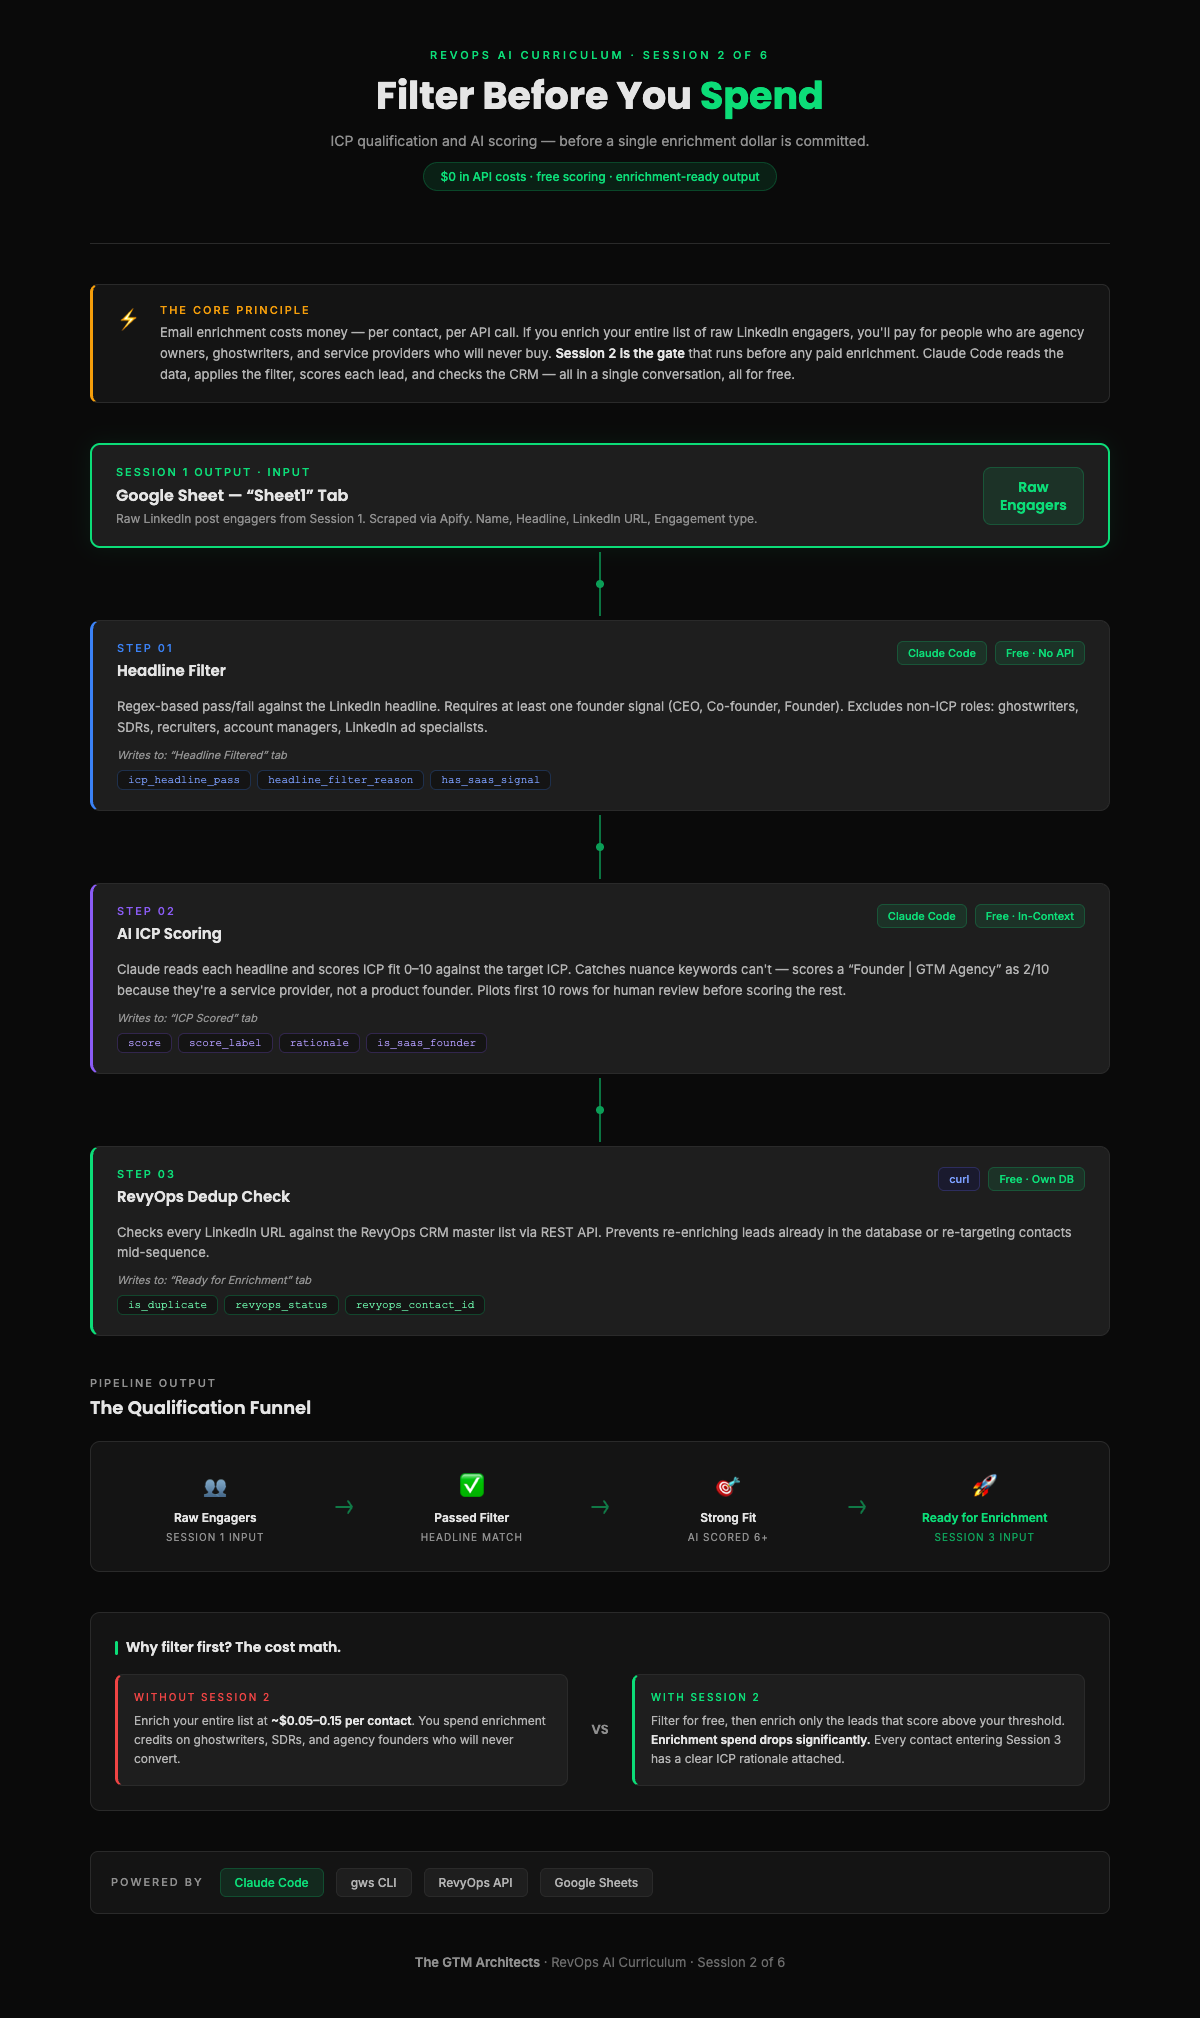
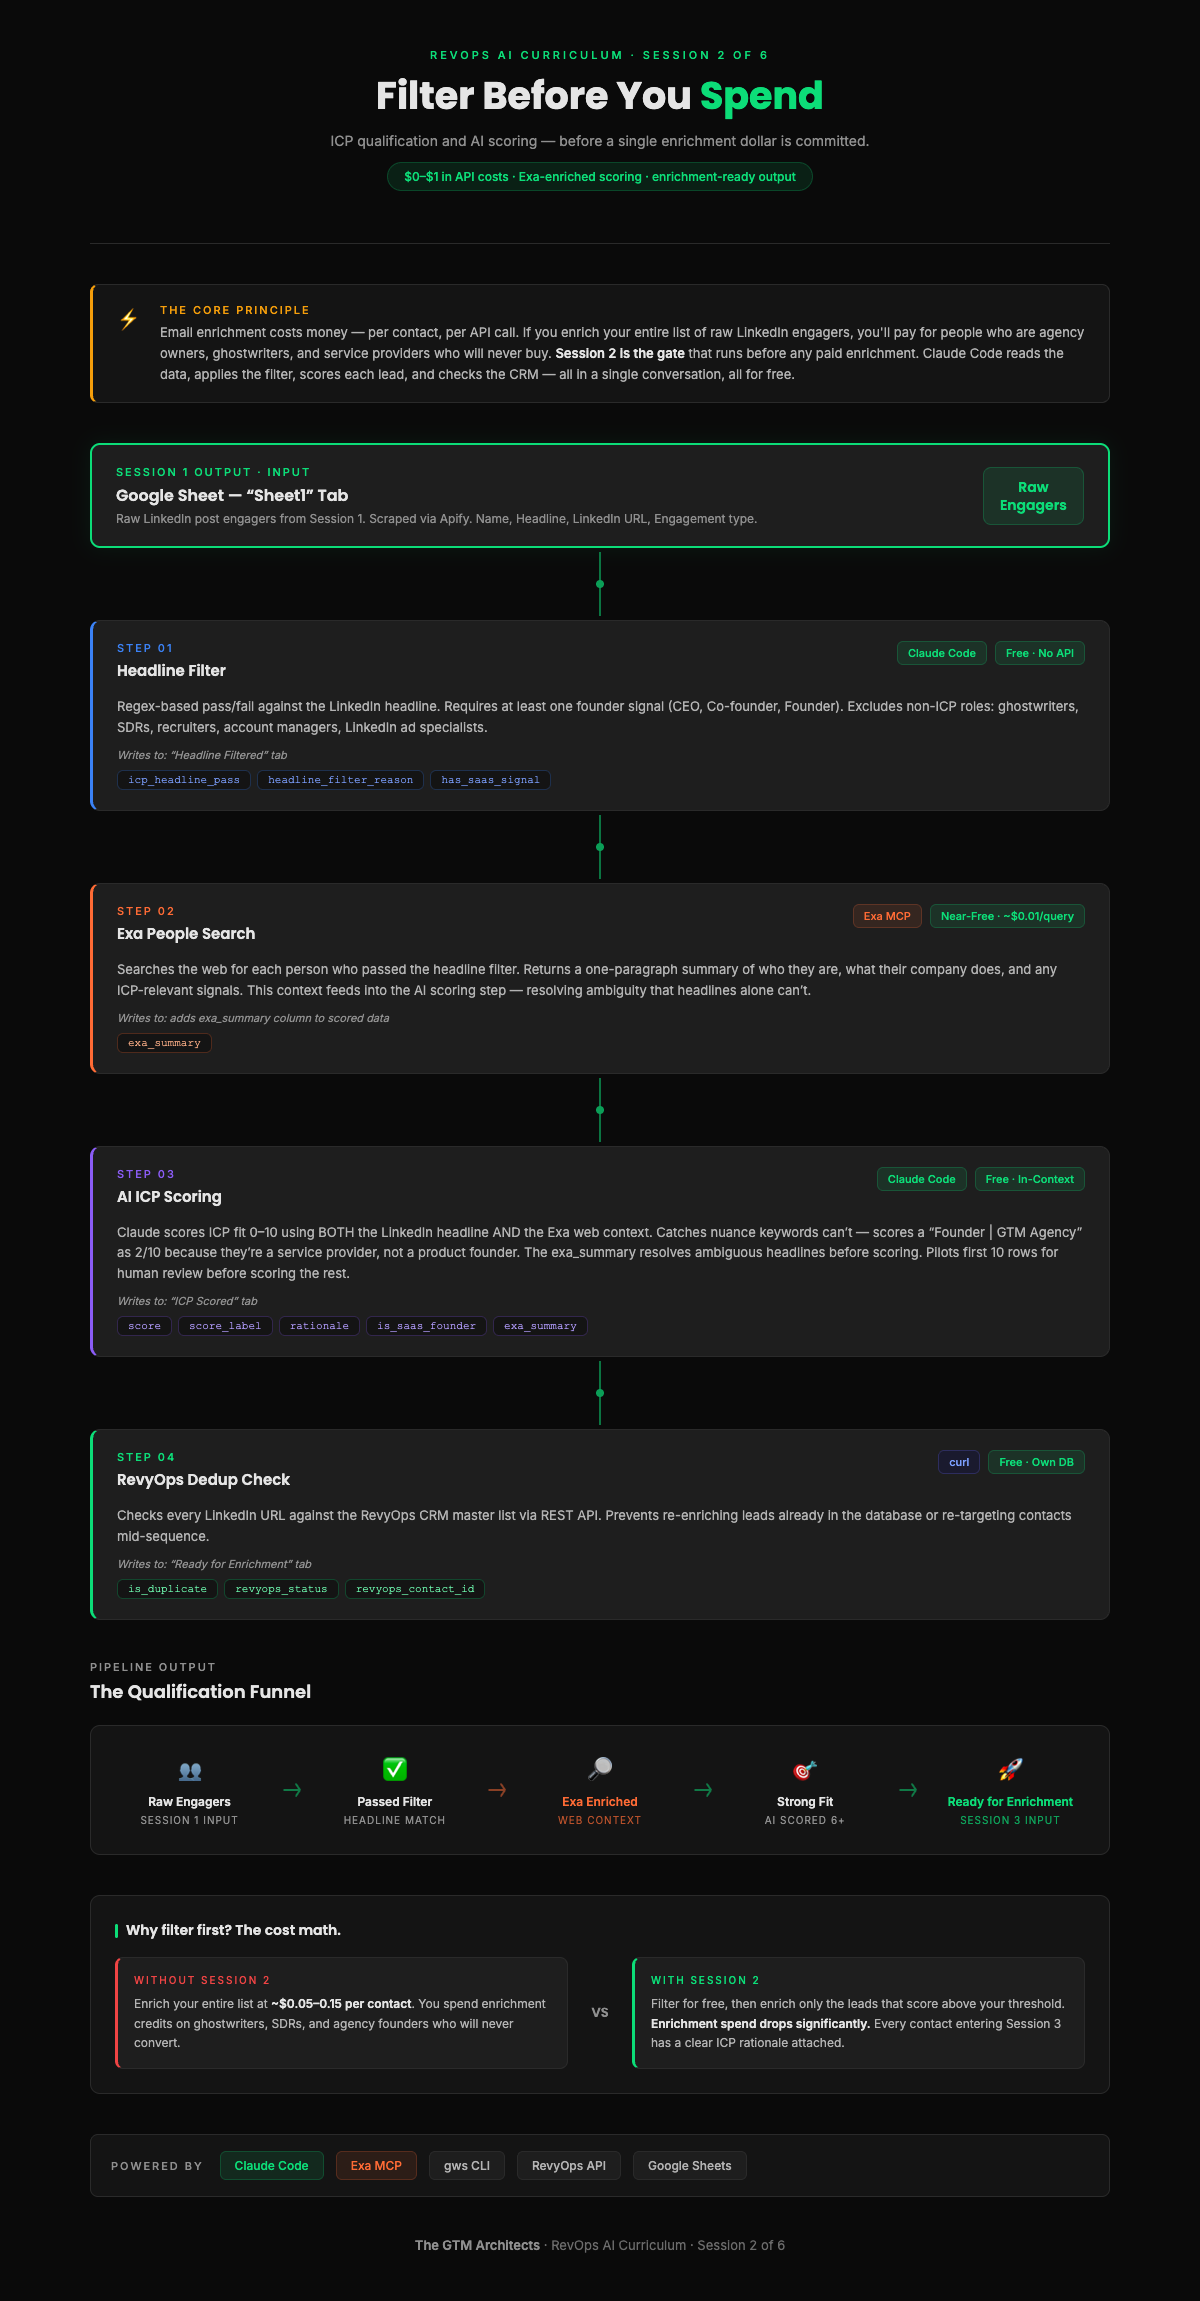
Add Exa People Search as Step 2 in Session 2 pipeline
- Skill: insert Exa People Search between headline filter and AI scoring
  Claude now scores using BOTH headline AND Exa web context, resolving
  ambiguous leads that regex alone can't classify
- Diagram: add orange-accented Step 02 (Exa MCP), renumber to 4 steps,
  update hero pill to "$0-$1 in API costs", add Exa to tools row
- Notion page updated separately via MCP

diff --git a/diagrams/session-02-filter-pipeline.html b/diagrams/session-02-filter-pipeline.html
@@ -213,6 +213,7 @@
     position: relative;
   }
   .step-card.blue  { border-left: 3px solid var(--tga-blue); }
+  .step-card.orange { border-left: 3px solid var(--tga-orange); }
   .step-card.purple { border-left: 3px solid var(--tga-purple); }
   .step-card.green { border-left: 3px solid var(--tga-green); }
 
@@ -232,6 +233,7 @@
     margin-bottom: 4px;
   }
   .step-card.blue  .step-number { color: var(--tga-blue); }
+  .step-card.orange .step-number { color: var(--tga-orange); }
   .step-card.purple .step-number { color: var(--tga-purple); }
   .step-card.green .step-number { color: var(--tga-green); }
 
@@ -269,6 +271,11 @@
     background: var(--tga-green-10);
     border: 1px solid var(--tga-green-20);
     color: var(--tga-green);
+  }
+  .badge-orange {
+    background: rgba(255, 107, 53, 0.1);
+    border: 1px solid rgba(255, 107, 53, 0.2);
+    color: var(--tga-orange);
   }
 
   .step-body {
@@ -308,6 +315,7 @@
     border-radius: 6px;
   }
   .step-card.blue  .output-chip { border-color: rgba(59, 130, 246, 0.25); color: #7C9FFF; }
+  .step-card.orange .output-chip { border-color: rgba(255, 107, 53, 0.25); color: #FFB088; }
   .step-card.purple .output-chip { border-color: rgba(139, 92, 246, 0.25); color: #B39DFF; }
   .step-card.green .output-chip { border-color: rgba(12, 221, 120, 0.25); color: #6EFAAF; }
 
@@ -499,7 +507,7 @@
   <div class="session-label">RevOps AI Curriculum &middot; Session 2 of 6</div>
   <h1 class="title">Filter Before You <span>Spend</span></h1>
   <p class="subtitle">ICP qualification and AI scoring — before a single enrichment dollar is committed.</p>
-  <div class="thesis-pill">$0 in API costs &middot; free scoring &middot; enrichment-ready output</div>
+  <div class="thesis-pill">$0&ndash;$1 in API costs &middot; Exa-enriched scoring &middot; enrichment-ready output</div>
 </div>
 
 <div class="divider"></div>
@@ -566,27 +574,24 @@
     <div class="connector-line"></div>
   </div>
 
-  <!-- Step 2 -->
-  <div class="step-card purple">
+  <!-- Step 2 — Exa People Search (NEW) -->
+  <div class="step-card orange">
     <div class="step-header">
       <div class="step-meta">
         <div class="step-number">Step 02</div>
-        <div class="step-title">AI ICP Scoring</div>
+        <div class="step-title">Exa People Search</div>
       </div>
       <div class="step-badges">
-        <span class="badge badge-green">Claude Code</span>
-        <span class="badge badge-free">Free &middot; In-Context</span>
+        <span class="badge badge-orange">Exa MCP</span>
+        <span class="badge badge-green">Near-Free &middot; ~$0.01/query</span>
       </div>
     </div>
     <div class="step-body">
       <div class="step-desc">
-        <p>Claude reads each headline and scores ICP fit 0&ndash;10 against the target ICP. Catches nuance keywords can't — scores a &ldquo;Founder | GTM Agency&rdquo; as 2/10 because they're a service provider, not a product founder. Pilots first 10 rows for human review before scoring the rest.</p>
-        <div class="step-writes">Writes to: &ldquo;ICP Scored&rdquo; tab</div>
+        <p>Searches the web for each person who passed the headline filter. Returns a one-paragraph summary of who they are, what their company does, and any ICP-relevant signals. This context feeds into the AI scoring step &mdash; resolving ambiguity that headlines alone can&rsquo;t.</p>
+        <div class="step-writes">Writes to: adds exa_summary column to scored data</div>
         <div class="step-outputs">
-          <span class="output-chip">score</span>
-          <span class="output-chip">score_label</span>
-          <span class="output-chip">rationale</span>
-          <span class="output-chip">is_saas_founder</span>
+          <span class="output-chip">exa_summary</span>
         </div>
       </div>
     </div>
@@ -598,11 +603,44 @@
     <div class="connector-line"></div>
   </div>
 
-  <!-- Step 3 -->
-  <div class="step-card green">
+  <!-- Step 3 — AI ICP Scoring -->
+  <div class="step-card purple">
     <div class="step-header">
       <div class="step-meta">
         <div class="step-number">Step 03</div>
+        <div class="step-title">AI ICP Scoring</div>
+      </div>
+      <div class="step-badges">
+        <span class="badge badge-green">Claude Code</span>
+        <span class="badge badge-free">Free &middot; In-Context</span>
+      </div>
+    </div>
+    <div class="step-body">
+      <div class="step-desc">
+        <p>Claude scores ICP fit 0&ndash;10 using BOTH the LinkedIn headline AND the Exa web context. Catches nuance keywords can&rsquo;t &mdash; scores a &ldquo;Founder | GTM Agency&rdquo; as 2/10 because they&rsquo;re a service provider, not a product founder. The exa_summary resolves ambiguous headlines before scoring. Pilots first 10 rows for human review before scoring the rest.</p>
+        <div class="step-writes">Writes to: &ldquo;ICP Scored&rdquo; tab</div>
+        <div class="step-outputs">
+          <span class="output-chip">score</span>
+          <span class="output-chip">score_label</span>
+          <span class="output-chip">rationale</span>
+          <span class="output-chip">is_saas_founder</span>
+          <span class="output-chip">exa_summary</span>
+        </div>
+      </div>
+    </div>
+  </div>
+
+  <div class="connector">
+    <div class="connector-line"></div>
+    <div class="connector-dot"></div>
+    <div class="connector-line"></div>
+  </div>
+
+  <!-- Step 4 -->
+  <div class="step-card green">
+    <div class="step-header">
+      <div class="step-meta">
+        <div class="step-number">Step 04</div>
         <div class="step-title">RevyOps Dedup Check</div>
       </div>
       <div class="step-badges">
@@ -646,6 +684,14 @@
     <div class="funnel-stage-sub">Headline match</div>
   </div>
   <div class="funnel-arrow">
+    <svg viewBox="0 0 28 28" fill="none"><path d="M6 14h16M18 8l4 6-4 6" stroke="#FF6B35" stroke-width="2" stroke-linecap="round" stroke-linejoin="round" opacity="0.5"/></svg>
+  </div>
+  <div class="funnel-stage">
+    <div class="funnel-stage-icon">&#128270;</div>
+    <div class="funnel-stage-label" style="color: var(--tga-orange);">Exa Enriched</div>
+    <div class="funnel-stage-sub" style="color: var(--tga-orange); opacity: 0.7;">Web context</div>
+  </div>
+  <div class="funnel-arrow">
     <svg viewBox="0 0 28 28" fill="none"><path d="M6 14h16M18 8l4 6-4 6" stroke="#0CDD78" stroke-width="2" stroke-linecap="round" stroke-linejoin="round" opacity="0.5"/></svg>
   </div>
   <div class="funnel-stage">
@@ -683,6 +729,7 @@
 <div class="tools-row">
   <span class="tools-label">Powered by</span>
   <span class="tool-chip green">Claude Code</span>
+  <span class="tool-chip" style="border-color: rgba(255, 107, 53, 0.2); color: var(--tga-orange); background: rgba(255, 107, 53, 0.1);">Exa MCP</span>
   <span class="tool-chip">gws CLI</span>
   <span class="tool-chip">RevyOps API</span>
   <span class="tool-chip">Google Sheets</span>

diff --git a/.claude/skills/filter-engagers/SKILL.md b/.claude/skills/filter-engagers/SKILL.md
@@ -1,12 +1,12 @@
 ---
 name: filter-engagers
-description: "Read raw LinkedIn post engagers from a Google Sheet, run headline filter + AI ICP scoring + RevyOps dedup, and write results to separate sheet tabs. Use when given a Google Sheet URL containing Session 1 raw engagers."
+description: "Read raw LinkedIn post engagers from a Google Sheet, run headline filter + Exa People Search + AI ICP scoring + RevyOps dedup, and write results to separate sheet tabs. Use when given a Google Sheet URL containing Session 1 raw engagers."
 argument-hint: "[google-sheet-url]"
 ---
 
 # Filter Engagers — ICP Qualification Pipeline
 
-Given a Google Sheet URL containing raw LinkedIn post engagers (from Session 1 / `scrape-post-eg`), this skill runs three qualification steps and writes each stage to its own sheet tab — all before spending a single enrichment credit.
+Given a Google Sheet URL containing raw LinkedIn post engagers (from Session 1 / `scrape-post-eg`), this skill runs four qualification steps and writes each stage to its own sheet tab — filtering and scoring leads before committing enrichment credits.
 
 ---
 
@@ -26,11 +26,13 @@ If the user provides only a sheet URL, proceed with `Sheet1` as the input tab.
 ```
 Read input tab (raw engagers)
     ↓
-Step 1: Headline Filter (regex, all rows) → "Headline Filtered" tab
+Step 1: Headline Filter (regex, all rows)           → "Headline Filtered" tab
     ↓
-Step 2: AI ICP Scoring (pilot 10, then full) → "ICP Scored" tab
+Step 2: Exa People Search (on passed rows)          → adds exa_summary column
     ↓
-Step 3: RevyOps Dedup (curl per row) → "Ready for Enrichment" tab
+Step 3: AI ICP Scoring (with Exa context, pilot 10) → "ICP Scored" tab
+    ↓
+Step 4: RevyOps Dedup (curl per row)                → "Ready for Enrichment" tab
 ```
 
 ---
@@ -90,29 +92,37 @@ Create the tab if it doesn't exist. Clear it if it does. Write ALL rows (pass an
 
 | Name | Headline | LinkedIn URL | Engagement | Pass | Reason | Has SaaS Signal |
 
-```bash
-# Create tab
-gws sheets spreadsheets batchUpdate \
-  --params '{"spreadsheetId": "<SHEET_ID>"}' \
-  --json '{"requests": [{"addSheet": {"properties": {"title": "Headline Filtered"}}}]}'
-
-# Clear if already exists (ignore error if tab is new)
-gws sheets spreadsheets values clear \
-  --params '{"spreadsheetId": "<SHEET_ID>", "range": "Headline Filtered"}'
-
-# Write data
-gws sheets spreadsheets values update \
-  --params '{"spreadsheetId": "<SHEET_ID>", "range": "Headline Filtered!A1", "valueInputOption": "RAW"}' \
-  --json "$(cat /tmp/headline-filtered.json)"
-```
-
 Report: "Headline filter complete. X passed, Y failed. Z have SaaS signals."
 
 ---
 
-## Step 3: AI ICP Scoring
+## Step 3: Exa People Search
 
-Take only the rows that **passed** the headline filter.
+For each row that **passed** the headline filter, run an Exa People Search to get web context about the person. This context feeds into the AI scoring step, making scores dramatically more accurate.
+
+### How to call Exa
+
+Use the Exa MCP tool `people_search_exa`. For each passed row, search with the person's name and headline:
+
+```
+Query: "[Name] [Headline]"
+```
+
+From the Exa results, extract a **one-paragraph summary** of who this person is — their company, what it does, stage, and any signals relevant to the ICP (e.g., "founded a B2B SaaS platform", "runs a marketing consultancy", "pre-seed AI startup").
+
+If Exa returns no results or an error for a row, set `exa_summary` to `"No web context found"` and continue.
+
+### Store the results
+
+Add an `exa_summary` field to each passed row's data. This will be passed to the AI scoring step and written to the "ICP Scored" tab for transparency.
+
+Report: "Exa People Search complete. Found web context for X of Y leads."
+
+---
+
+## Step 4: AI ICP Scoring
+
+Take only the rows that **passed** the headline filter (now enriched with Exa context).
 
 ### ICP Scoring Rubric
 
@@ -122,25 +132,34 @@ This is the rubric Claude uses to score each lead. Students can edit this sectio
 
 | Score | Label | Criteria |
 |-------|-------|----------|
-| **9-10** | STRONG_FIT | B2B SaaS founder (CEO/Co-founder). Clear product company, not services. Pre-seed to Series A signals in headline. Founder appears to personally run GTM. |
-| **6-8** | MODERATE_FIT | Founder signal + SaaS/tech signal, but some ambiguity. Could be a real product founder or could be a tech-enabled services company. Needs enrichment to confirm. |
-| **3-5** | WEAK_FIT | Founder signal but no SaaS/product signal. Likely a consultant, coach, or agency owner who uses "founder" in their title. |
-| **1-2** | POOR_FIT | Weak founder signal or strong non-ICP signals. Service providers, content creators, operators at larger companies. |
+| **9-10** | STRONG_FIT | B2B SaaS founder (CEO/Co-founder). Clear product company, not services. Pre-seed to Series A signals. Founder appears to personally run GTM. Exa confirms a real software product. |
+| **6-8** | MODERATE_FIT | Founder signal + SaaS/tech signal, but some ambiguity. Exa context may partially clarify — could be a real product founder or a tech-enabled services company. |
+| **3-5** | WEAK_FIT | Founder signal but no SaaS/product signal. Exa suggests a consultant, coach, or agency owner who uses "founder" in their title. |
+| **1-2** | POOR_FIT | Weak founder signal or strong non-ICP signals. Exa confirms service provider, content creator, or operator at a larger company. |
 | **0** | NO_FIT | Excluded role that bypassed headline filter, or clearly not a founder. |
+
+### Scoring input per row
+
+For each row, Claude receives:
+- `name` — the person's name
+- `headline` — their LinkedIn headline
+- `exa_summary` — the web context from Exa People Search
+
+Claude scores using BOTH the headline AND the Exa summary. The Exa context resolves ambiguity — a headline like "Founder | Helping companies scale" could be a SaaS founder or a consultant, but Exa returning "founded DataPulse, a B2B SaaS platform" makes it a clear 9/10.
 
 ### Scoring output per row
 
 For each row, produce:
 - `score` — integer 0-10
 - `score_label` — STRONG_FIT / MODERATE_FIT / WEAK_FIT / POOR_FIT / NO_FIT
-- `rationale` — one sentence explaining the score, referencing specific headline words
+- `rationale` — one sentence explaining the score, referencing specific headline words AND Exa context
 - `is_saas_founder` — true/false
 
 ### Pilot first (10 rows)
 
 Score the **first 10 passed rows only**. Write them to the **"ICP Scored"** tab with columns:
 
-| Name | Headline | LinkedIn URL | Score | Score Label | Rationale | Is SaaS Founder |
+| Name | Headline | LinkedIn URL | Exa Summary | Score | Score Label | Rationale | Is SaaS Founder |
 
 Then **show the user a summary**:
 
@@ -155,13 +174,13 @@ Ask: **"These are the first 10 scores. Want me to adjust the rubric or continue 
 
 ### Full batch (on approval)
 
-Score all remaining passed rows. Append them to the "ICP Scored" tab (don't overwrite the pilot rows — clear and rewrite the full set).
+Score all remaining passed rows. Clear and rewrite the full "ICP Scored" tab with all rows.
 
 Report: "Scored X leads. Y STRONG_FIT (8+), Z MODERATE_FIT (6-7), W below threshold."
 
 ---
 
-## Step 4: RevyOps Dedup
+## Step 5: RevyOps Dedup
 
 For each row in the "ICP Scored" output, check against the RevyOps CRM:
 
@@ -232,5 +251,6 @@ gws sheets spreadsheets values update \
 - `gws` CLI is at `/opt/homebrew/bin/gws` (`@googleworkspace/cli@0.7.0`)
 - RevyOps base URL is `app.revyops.com/api`, **not** `api.revyops.com` (the latter returns NXDOMAIN)
 - `REVYOPS_MASTER_API_KEY` must be set in `.env`
+- Exa People Search uses the Exa MCP tool — ensure the Exa MCP server is connected
 - See `learnings.md` at the repo root for additional gotchas from previous sessions
-- All three pipeline steps are free — no enrichment credits are spent
+- Headline filter and AI scoring are free. Exa People Search is near-free (~$0.01/query). RevyOps dedup is free (own DB).
